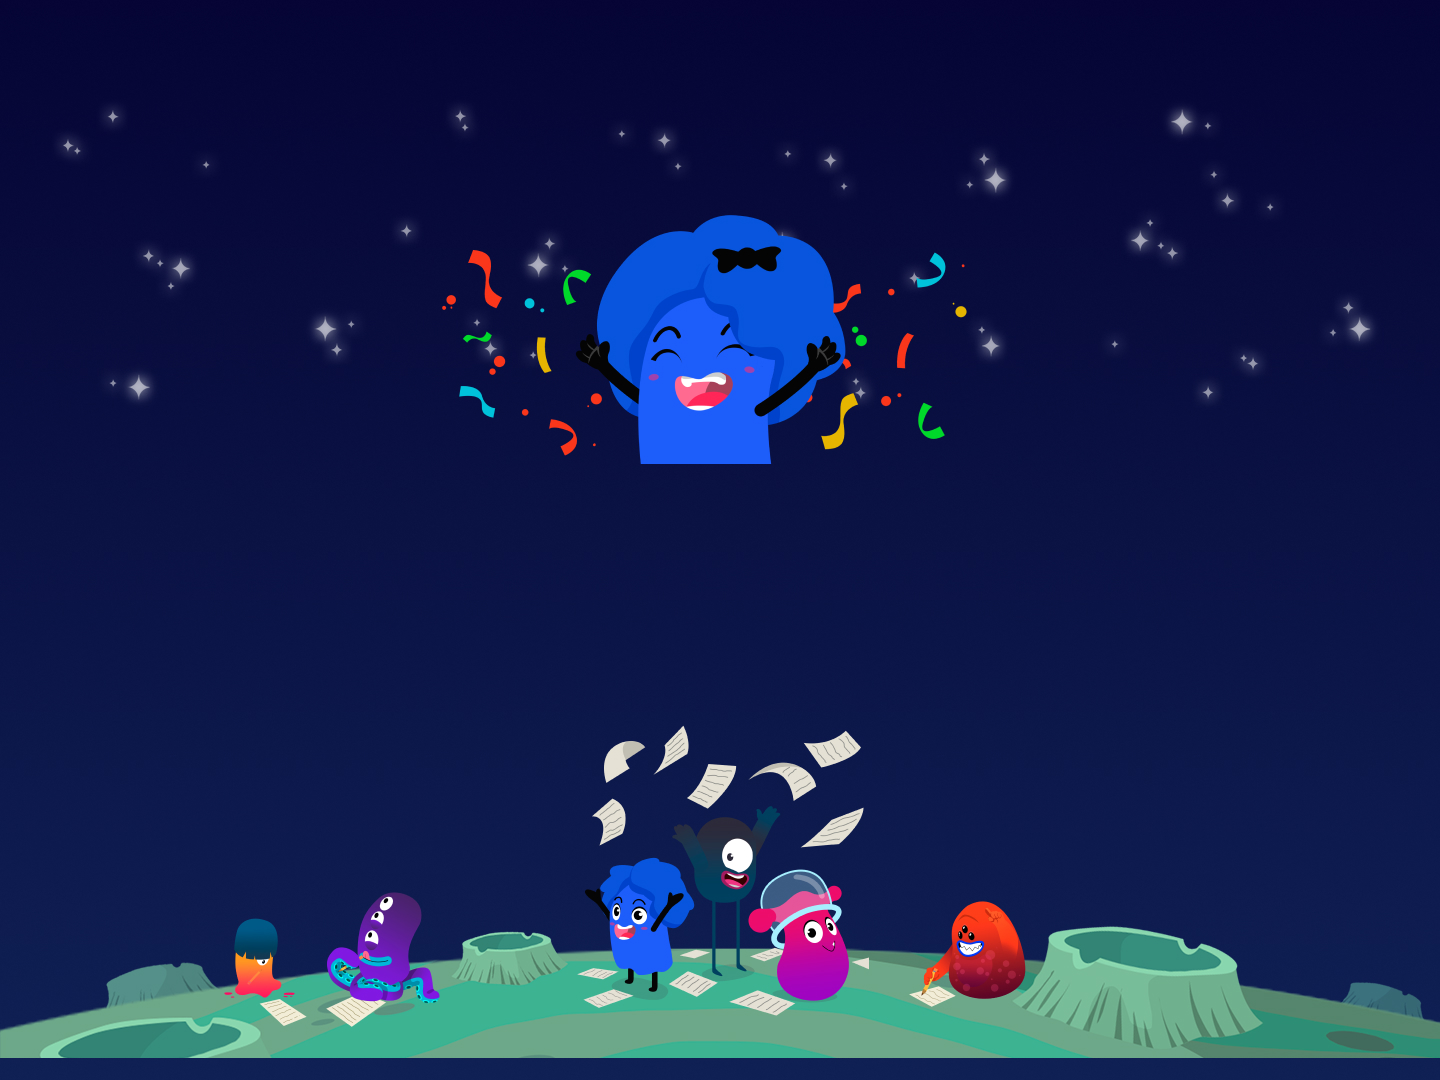
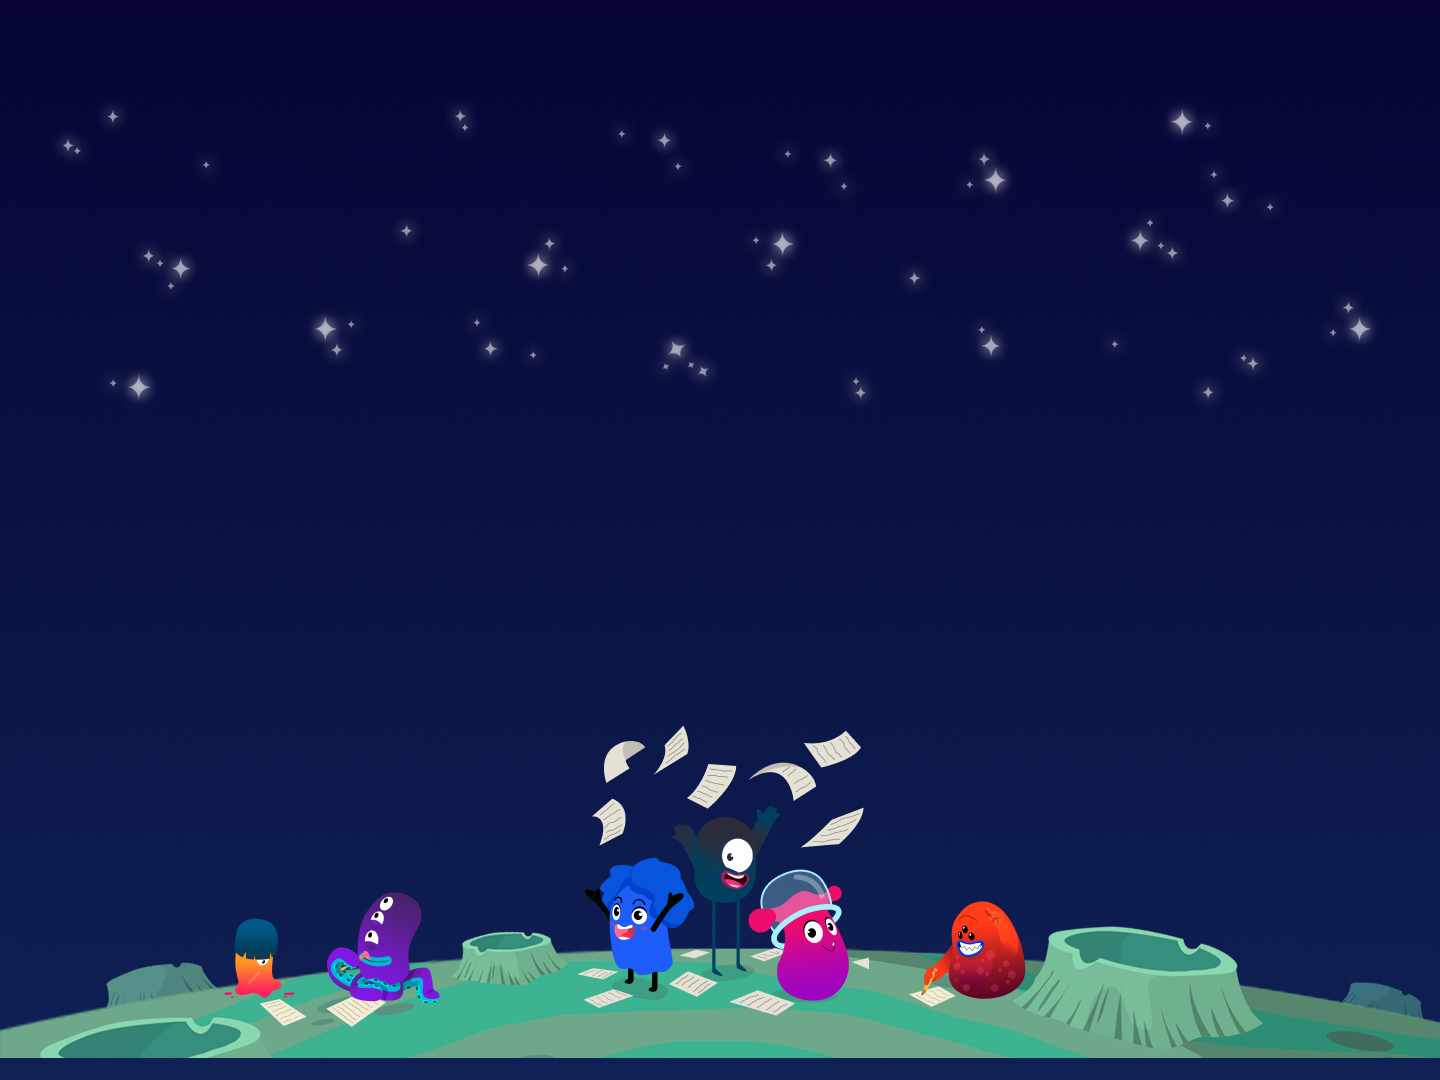
Adicionando Lottie na página de Avaliação de Prova

diff --git a/src/pages/Exam/Exam-Evaluation.tsx b/src/pages/Exam/Exam-Evaluation.tsx
@@ -3,6 +3,8 @@ import { useNavigate } from "react-router-dom";
 import { useSubmitExamEvaluation } from "~/api/student";
 import bg from '~/assets/bgs/bg-exam-evaluation.jpg'
 import { PATH } from "~/constants/path";
+import Lottie from 'react-lottie';
+import loadingLottie from '~/assets/lotties/lottie_loading_anim.json'
 
 export function ExamEvaluationPage() {
 
@@ -12,15 +14,29 @@ export function ExamEvaluationPage() {
         onSuccess: () => navigate(PATH.DASHBOARD),
     });
 
+    const defaultOptions = {
+        loop: true,
+        autoplay: true,
+        animationData: loadingLottie,
+        rendererSettings: {
+            preserveAspectRatio: "xMidYMid slice"
+        }
+    };
+
     return (
         <BackgroundImage src={bg} h="100vh">
-            <Center h="100vh">
+            <Center>
                 <Box style={{ color: '#fff', padding: '0px 0', fontSize: 20 }}>
                     <Container>
-                        <Flex direction="column" align="center" justify="center">
-                        <span>Você acabou de concluir a prova.</span>
-                        <span style={{paddingBottom: 15 }}>Aguarde enquanto o sistema calcula as suas tarefas.</span>
-                        {true && <Loader />}
+                        <Lottie
+                            options={defaultOptions}
+                            height={400}
+                            width={400}
+                        />
+                        <Flex direction="column" align="center" justify="center">  
+                            <span>Você acabou de concluir a prova.</span>
+                            <span style={{paddingBottom: 15 }}>Aguarde enquanto o sistema calcula as suas tarefas.</span>
+                            {true && <Loader />}
                         </Flex>
                     </Container>
                 </Box>
